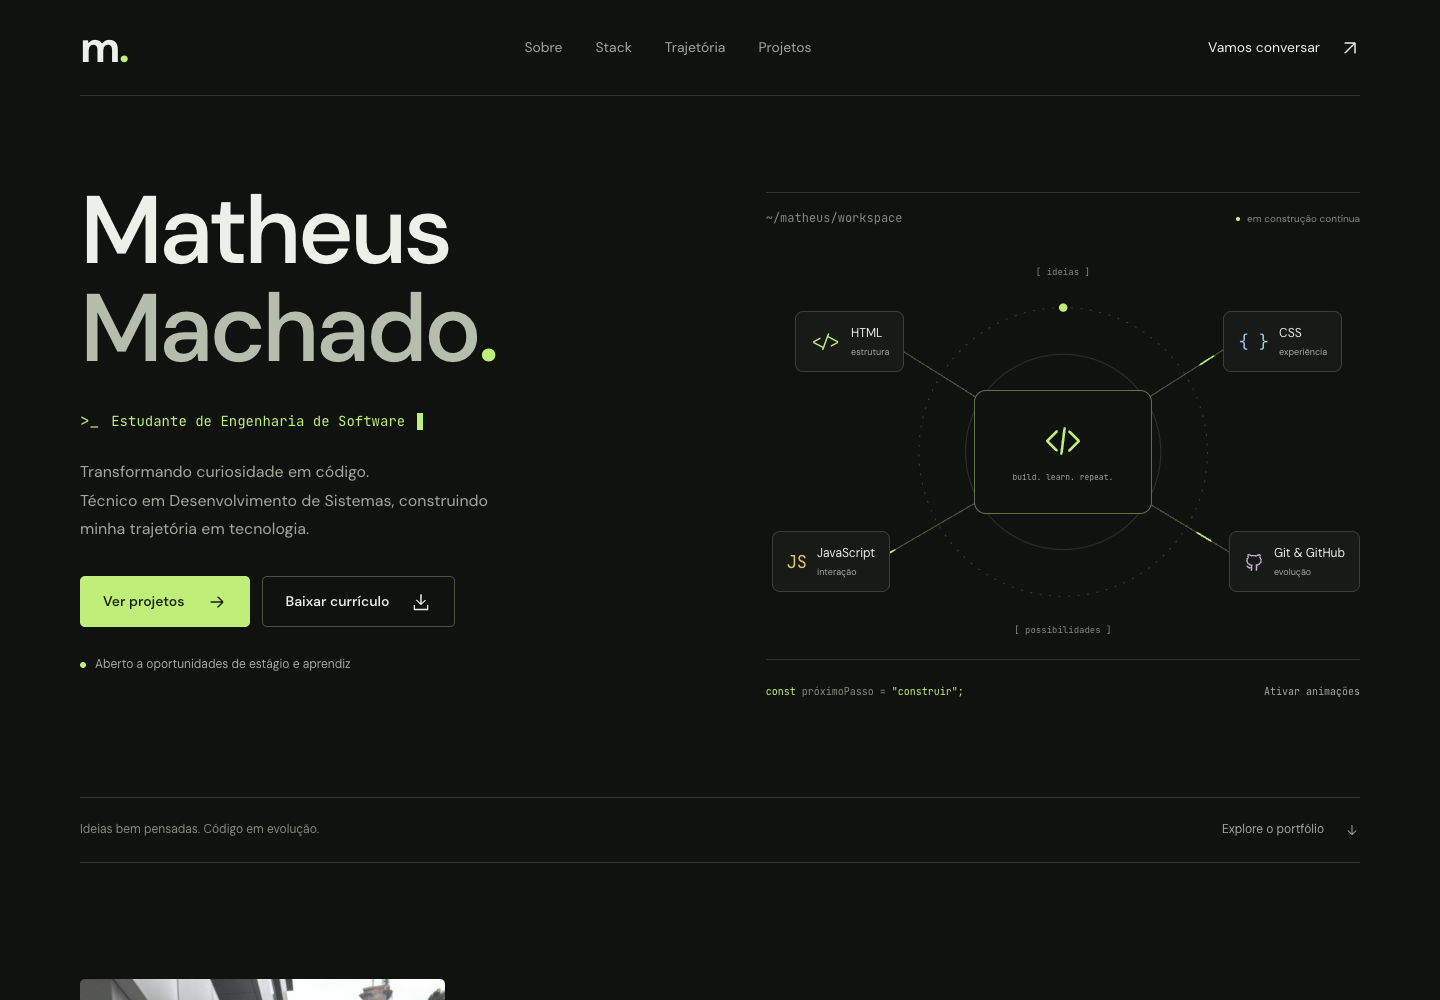
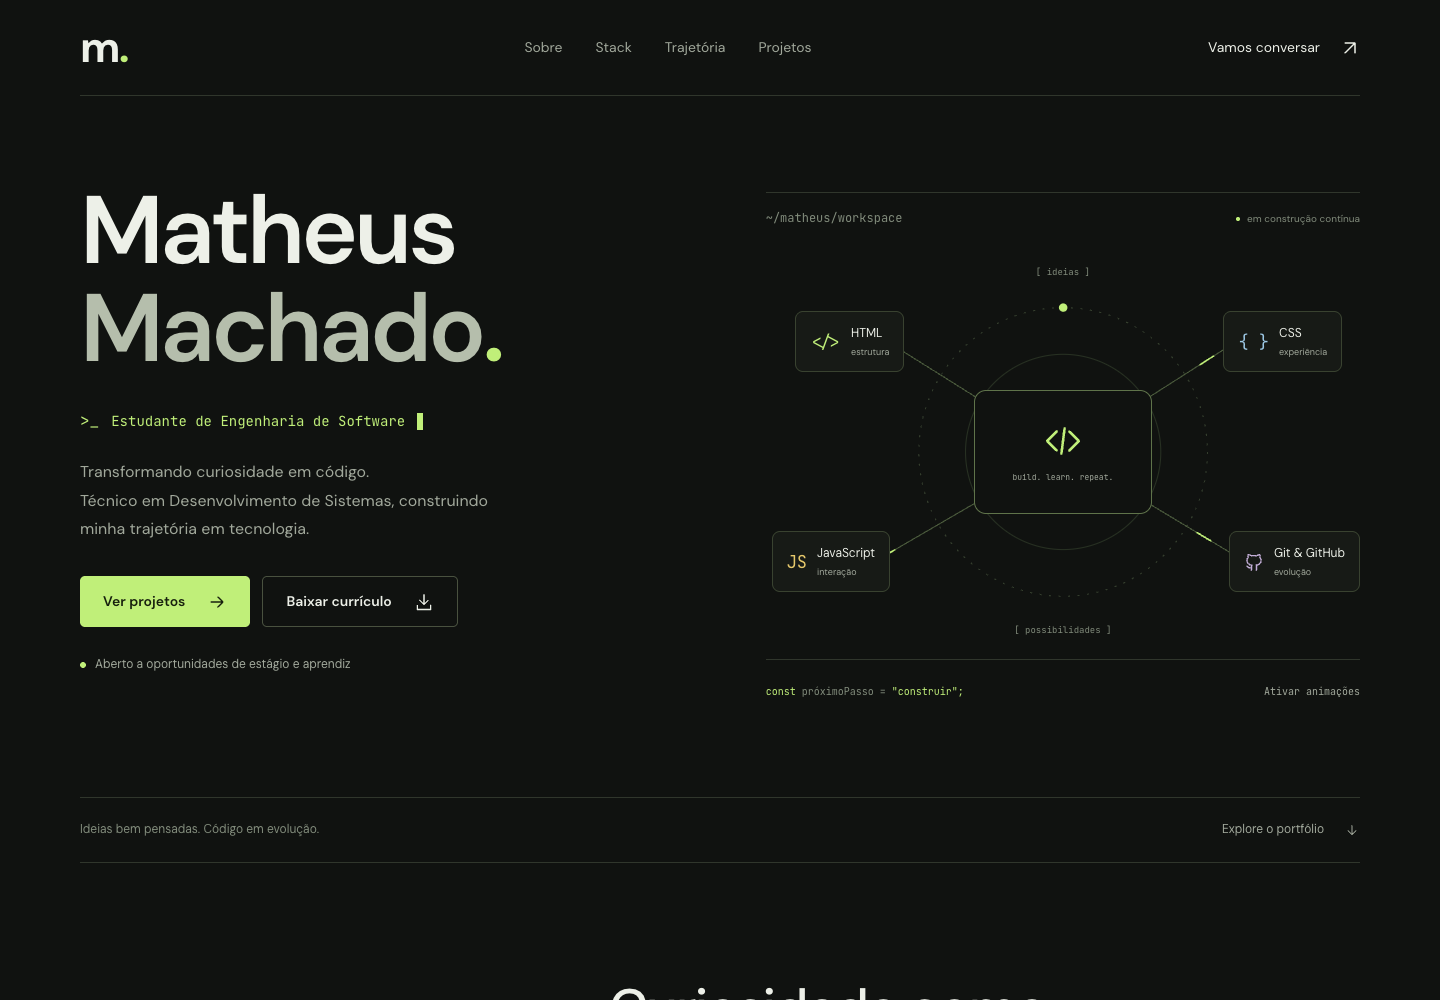
Ajustes finais

diff --git a/index.html b/index.html
@@ -7,9 +7,7 @@
   <meta name="description" content="Matheus Machado — estudante de Engenharia de Software e técnico em Desenvolvimento de Sistemas. Conheça minhas competências, formação e projetos.">
   <title>Matheus Machado — Engenharia de Software</title>
   <link rel="icon" href="favicon.svg" type="image/svg+xml">
-  <link rel="preconnect" href="https://fonts.googleapis.com">
-  <link rel="preconnect" href="https://fonts.gstatic.com" crossorigin>
-  <link href="https://fonts.googleapis.com/css2?family=DM+Sans:wght@400;450;500;550;600;650;700&family=JetBrains+Mono:wght@400;500&display=swap" rel="stylesheet">
+  <link rel="stylesheet" href="fonts/fonts.css">
   <link rel="stylesheet" href="style.css">
   <script src="script.js" defer></script>
 </head>
@@ -39,7 +37,7 @@
       <div class="hero-copy">
         <h1 id="hero-title">Matheus<br><span>Machado<span class="name-dot">.</span></span></h1>
         <div class="role-line"><span class="code-prompt" aria-hidden="true">&gt;_</span><p id="typed-role">Estudante de Engenharia de Software</p><span class="typing-caret" aria-hidden="true"></span></div>
-        <p class="hero-description">Transformando curiosidade em código.<br>Técnico em Desenvolvimento de Sistemas, construindo minha trajetória em tecnologia.</p>
+        <p class="hero-description">Transformando curiosidade em código. <br>Técnico em Desenvolvimento de Sistemas, construindo minha trajetória em tecnologia.</p>
         <div class="hero-actions">
           <a class="button button-primary magnetic" href="#projetos">Ver projetos <svg class="icon"><use href="#arrow"/></svg></a>
           <a class="button button-secondary magnetic" href="docs/Curr%C3%ADculo%20Matheus%20Machado.pdf" download>Baixar currículo <svg class="icon"><use href="#download"/></svg></a>
@@ -109,18 +107,18 @@ console.<span class="syntax-blue">log</span>(construir());</code></pre></div>
     </section>
 
     <section id="projetos" class="projects section container" aria-labelledby="projects-title">
-      <div class="section-heading reveal"><h2 id="projects-title">Do aprendizado<br>para a prática<span class="green">.</span></h2><a class="text-link" href="https://github.com/matheus1902-code" target="_blank" rel="noopener noreferrer">Explorar meu GitHub <svg class="icon"><use href="#external"/></svg></a></div>
+      <div class="section-heading reveal"><h2 id="projects-title">Do aprendizado<br>para a prática<span class="green">.</span></h2><a class="text-link" href="https://github.com/matheus-2207" target="_blank" rel="noopener noreferrer">Explorar meu GitHub <svg class="icon"><use href="#external"/></svg></a></div>
       <div class="project-grid">
         <article class="project-feature reveal">
           <a class="project-preview" href="https://github.com/matheus-2207/Matheus-Machado" target="_blank" rel="noopener noreferrer" aria-label="Ver código-fonte do portfólio pessoal no GitHub"><div class="preview-toolbar mono"><span class="preview-dots"><i></i><i></i><i></i></span>portfolio / index.html<svg class="icon"><use href="#external"/></svg></div><div class="mini-site" aria-hidden="true"><div class="mini-nav"><b>m<span>.</span></b><span>sobre &nbsp; stack &nbsp; projetos</span></div><div class="mini-content"><span>Matheus<br>Machado<span class="green">.</span></span><div class="mini-code">&lt;ideias&gt;<br><span>construir();</span><br>&lt;/ideias&gt;</div></div><span class="mini-button">Explore o portfólio <svg class="icon"><use href="#arrow"/></svg></span></div><span class="preview-note">Você está explorando este projeto</span></a>
           <div class="project-description"><div><h3>Portfólio pessoal</h3><p>Meu currículo como experiência web. Interface responsiva, animações e interatividade com tecnologias nativas.</p></div><a class="project-arrow" href="https://github.com/matheus-2207/Matheus-Machado" target="_blank" rel="noopener noreferrer" aria-label="Abrir repositório do portfólio"><svg class="icon"><use href="#external"/></svg></a></div><ul class="tags" aria-label="Tecnologias do portfólio"><li>HTML</li><li>CSS</li><li>JavaScript</li></ul>
         </article>
-        <article class="project-next reveal"><svg class="icon"><use href="#github"/></svg><h3>O próximo projeto<br>começa com uma<br>boa pergunta.</h3><p>Meu repertório está em construção. Acompanhe os próximos experimentos e aprendizados no GitHub.</p><a class="text-link" href="https://github.com/matheus1902-code" target="_blank" rel="noopener noreferrer">Acompanhar minha evolução <svg class="icon"><use href="#external"/></svg></a><span class="mono next-code">git commit -m "seguir aprendendo"</span></article>
+        <article class="project-next reveal"><svg class="icon"><use href="#github"/></svg><h3>O próximo projeto<br>começa com uma<br>boa pergunta.</h3><p>Meu repertório está em construção. Acompanhe os próximos experimentos e aprendizados no GitHub.</p><a class="text-link" href="https://github.com/matheus-2207" target="_blank" rel="noopener noreferrer">Acompanhar minha evolução <svg class="icon"><use href="#external"/></svg></a><span class="mono next-code">git commit -m "seguir aprendendo"</span></article>
       </div>
     </section>
 
     <section id="contato" class="contact section" aria-labelledby="contact-title"><div class="container contact-grid">
-      <div class="contact-copy reveal"><p class="availability"><span class="status-dot"></span>Aberto ao próximo capítulo</p><h2 id="contact-title">Vamos construir<br>algo juntos<span class="green">?</span></h2><p>Uma oportunidade, uma ideia ou uma boa conversa.<br>Estou pronto para dar o próximo passo.</p><a class="contact-email" href="mailto:matheusvm2019@gmail.com">matheusvm2019@gmail.com <svg class="icon"><use href="#external"/></svg></a><div class="social-links"><a href="https://github.com/matheus1902-code" target="_blank" rel="noopener noreferrer"><svg class="icon"><use href="#github"/></svg>GitHub</a><a href="https://www.linkedin.com/in/matheus-machado-560680384" target="_blank" rel="noopener noreferrer"><svg class="icon"><use href="#linkedin"/></svg>LinkedIn</a><a href="https://wa.me/5541996550283" target="_blank" rel="noopener noreferrer">WhatsApp <svg class="icon"><use href="#external"/></svg></a></div></div>
+      <div class="contact-copy reveal"><p class="availability"><span class="status-dot"></span>Aberto ao próximo capítulo</p><h2 id="contact-title">Vamos construir<br>algo juntos<span class="green">?</span></h2><p>Uma oportunidade, uma ideia ou uma boa conversa. <br>Estou pronto para dar o próximo passo.</p><a class="contact-email" href="mailto:matheusvm2019@gmail.com">matheusvm2019@gmail.com <svg class="icon"><use href="#external"/></svg></a><div class="social-links"><a href="https://github.com/matheus-2207" target="_blank" rel="noopener noreferrer"><svg class="icon"><use href="#github"/></svg>GitHub</a><a href="https://www.linkedin.com/in/matheus-machado-560680384" target="_blank" rel="noopener noreferrer"><svg class="icon"><use href="#linkedin"/></svg>LinkedIn</a><a href="https://wa.me/5541996550283" target="_blank" rel="noopener noreferrer">WhatsApp <svg class="icon"><use href="#external"/></svg></a></div></div>
       <form id="contact-form" class="contact-form reveal" action="mailto:matheusvm2019@gmail.com" method="get"><div class="field"><label for="contact-name">Seu nome</label><input id="contact-name" name="name" placeholder="Como posso chamar você?" autocomplete="name" required maxlength="100"></div><div class="field"><label for="contact-email">Seu e-mail</label><input id="contact-email" name="email" type="email" placeholder="voce@empresa.com" autocomplete="email" required maxlength="254"></div><div class="field"><label for="contact-message">O que você tem em mente?</label><textarea id="contact-message" name="body" placeholder="Me conte sobre a oportunidade ou sua ideia..." required minlength="10" maxlength="3000" rows="3"></textarea></div><button class="button button-primary" type="submit">Preparar e-mail <svg class="icon"><use href="#arrow"/></svg></button><p class="form-note">Abre seu aplicativo de e-mail com a mensagem preenchida. Você confirma o envio por lá.</p><p id="form-status" class="form-status" role="status"></p></form>
     </div></section>
   </main>

diff --git a/style.css b/style.css
@@ -100,7 +100,7 @@ h1 > span { color: #b5beac; }
 .down { transform: rotate(90deg); width: 16px; }
 .about { display: grid; grid-template-columns: .8fr 1.4fr; gap: 100px; align-items: center; }
 .about-portrait { position: relative; max-width: 365px; }
-.about-portrait img { width: 100%; height: auto; aspect-ratio: 4/4.6; object-fit: cover; object-position: center 37%; filter: saturate(.55); border-radius: 5px; }
+.about-portrait img { width: 100%; height: auto; aspect-ratio: 4/4.6; object-fit: cover; object-position: center 37%; border-radius: 5px; }
 .portrait-caption { position: absolute; bottom: 0; left: 0; right: 0; padding: 14px 20px; background: var(--surface); color: var(--muted); font-size: 10px; }
 .about-copy h2 { max-width: 620px; margin-bottom: 28px; }
 .about-copy > p { margin-top: 16px; max-width: 65ch; }
@@ -258,7 +258,7 @@ html:has(body.motion-paused) { scroll-behavior: auto; }
   .skill-tab { flex-direction: column; justify-content: center; text-align: center; padding: 14px 6px; gap: 8px; }.skill-tab > span:nth-child(2) { font-size: 12px; }.skill-tab > span > span,.skill-tab > .icon:last-child { display: none; }
   .editor { border-left: 0; border-top: 1px solid var(--line); }
   .journey { grid-template-columns: 1fr; gap: 40px; }.journey-intro > p { max-width: 500px; }.timeline { margin-left: 6px; }
-  .project-grid { grid-template-columns: 1fr; gap: 35px; }.project-next { padding: 35px 0 0; border-top: 1px solid var(--line); }.project-next h3 br { display: none; }.project-next h3 { max-width: 500px; }.project-next p { max-width: 500px; }.next-code { padding-top: 25px; }
+  .project-grid { grid-template-columns: 1fr; gap: 35px; }.project-next { padding: 35px 0 0; border-top: 1px solid var(--line); }.project-next h3 { max-width: 500px; }.project-next p { max-width: 500px; }.next-code { padding-top: 25px; }
   .mini-content > span { font-size: 48px; }.mini-site { margin-inline: 40px; padding: 24px 35px 35px; }.mini-code { font-size: 12px; }
   .contact-grid { grid-template-columns: 1fr; gap: 50px; }
 }
@@ -294,4 +294,34 @@ html:has(body.motion-paused) { scroll-behavior: auto; }
 }
 @media (prefers-reduced-motion: reduce) {
   html { scroll-behavior: auto; }*,*::before,*::after { animation: none !important; transition: none !important; }.cursor-ring { display: none; }
+}
+
+/* Mobile refinements: readable controls and stable layouts on narrow screens. */
+.sr-only { position: absolute; width: 1px; height: 1px; padding: 0; margin: -1px; overflow: hidden; clip-path: inset(50%); white-space: nowrap; border: 0; }
+@media (max-width: 800px) {
+  .run-button, .system-bottom button { min-height: 44px; }
+  .social-links a, .text-link, .back-top { min-height: 44px; }
+  .field input, .field textarea { font-size: 16px; }
+  .hero-copy, .about-copy, .contact-copy, .contact-form, .project-feature { min-width: 0; }
+  .code-window { overscroll-behavior-x: contain; }
+}
+@media (max-width: 560px) {
+  .menu-toggle { width: 44px; height: 44px; }
+  .role-line { min-height: 36px; align-items: flex-start; }
+  .role-line p { font-size: 11px; min-width: 0; line-height: 1.65; }
+  .typing-caret { margin-top: 3px; }
+  .system-bottom { flex-wrap: wrap; gap: 0 10px; font-size: 9px; }
+  .system-bottom button { font-size: 10px; }
+  .about-portrait img { height: auto; aspect-ratio: 1.1; }
+  pre, .line-numbers { font-size: 11px; line-height: 1.9; }
+  .contact-email { font-size: clamp(13px, 4vw, 16px); overflow-wrap: anywhere; }
+}
+@media (max-width: 360px) {
+  .hero-actions { display: grid; grid-template-columns: 1fr; }
+  .hero-actions .button { justify-content: space-between; }
+  .header-contact { margin-right: 10px; }
+  .system-live { display: none; }
+  .tech-node { padding: 8px 6px; font-size: 9px; }
+  .node-caption { font-size: 7px; }
+  .contact-copy h2 { font-size: 36px; }
 }

diff --git a/script.js b/script.js
@@ -16,11 +16,14 @@ reducedMotion.addEventListener('change', (event) => { motionPaused = event.match
 // The real heading remains readable for assistive technology and without JavaScript.
 const role = document.querySelector('#typed-role');
 const roleText = role.textContent;
-role.setAttribute('aria-label', roleText);
+
 if (!motionPaused) {
   const animatedRole = document.createElement('span');
   animatedRole.setAttribute('aria-hidden', 'true');
-  role.replaceChildren(animatedRole);
+  const accessibleRole = document.createElement('span');
+  accessibleRole.className = 'sr-only';
+  accessibleRole.textContent = roleText;
+  role.replaceChildren(accessibleRole, animatedRole);
   let character = 0;
   function typeRole() {
     if (motionPaused) { animatedRole.textContent = roleText; return; }

diff --git a/DESIGN.md b/DESIGN.md
@@ -1,0 +1,69 @@
+---
+name: Matheus Machado
+description: Portfólio editorial de engenharia de software
+colors:
+  primary: "#c0ef79"
+  background: "#101210"
+  surface: "#171a16"
+  foreground: "#edf0e8"
+  muted: "#a1a89b"
+  border: "#30362c"
+typography:
+  display:
+    fontFamily: "DM Sans, sans-serif"
+    fontSize: "clamp(64px, 6.7vw, 96px)"
+    fontWeight: 550
+    lineHeight: 1.02
+    letterSpacing: "-0.04em"
+  body:
+    fontFamily: "DM Sans, sans-serif"
+    fontSize: "16px"
+    fontWeight: 400
+    lineHeight: 1.65
+  code:
+    fontFamily: "JetBrains Mono, monospace"
+    fontSize: "12px"
+    lineHeight: 1.9
+rounded:
+  control: "5px"
+  panel: "12px"
+spacing:
+  small: "12px"
+  medium: "24px"
+  section: "116px"
+components:
+  button-primary:
+    backgroundColor: "{colors.primary}"
+    textColor: "#17200d"
+    rounded: "{rounded.control}"
+    padding: "13px 23px"
+---
+# Design System: Matheus Machado
+
+## Overview
+Ambiente de desenvolvimento editorial: tipografia ampla, superfícies escuras e diagrama de competências. A expressão técnica vem do código e das interações reais, preservando o perfil de estudante.
+
+## Colors
+Verde suave destaca ações e estados selecionados. Tons carvão estruturam o fundo e o editor; off-white privilegia a leitura. Azul, âmbar e violeta identificam sintaxe.
+
+## Typography
+DM Sans local para títulos e conteúdo; JetBrains Mono local para código. Títulos equilibrados e tracking limitado a -0.04em. No celular, texto de formulário em 16px evita zoom automático e código mantém rolagem horizontal interna.
+
+## Layout
+Contêiner máximo de 1280px. Hero e seções alternam duas colunas; abaixo de 800px, painéis principais se empilham. Breakpoints em 1100, 800, 560 e 360px. Margens de 20px em celulares; espaçamento vertical de 72px. Imagem com proporção explícita e altura automática.
+
+## Elevation & Depth
+Camadas tonais e bordas finas. Sem sombras ou halos decorativos.
+
+## Shapes
+Controles levemente arredondados, editor com cantos de painel, linha contínua na timeline. Ícones SVG com traço consistente.
+
+## Components
+Hero com digitação acessível e diagrama de tecnologias navegável. Botões com deslocamento magnético sutil em mouse. Abas com teclado e terminal demonstrativo. Timeline em details/summary nativo. Projeto com prévia em HTML. Formulário com validação e confirmação de preparação, sem alegar envio. Menu mobile com Escape e fechamento ao navegar. Movimento respeita preferências do sistema e pausa manual.
+
+## Do's and Don'ts
+- Preservar as informações reais e os links confirmados.
+- Manter o conteúdo visível sem animações ou JavaScript.
+- Reservar monoespaçada para código e informação técnica.
+- Não inventar senioridade, percentuais ou experiência.
+- Não transformar preparação de e-mail em confirmação de envio.

diff --git a/README.md b/README.md
@@ -1,2 +1,27 @@
-# Matheus-Machado
-Basicamente meu currículo em um site.
+# Matheus Machado — Portfólio
+
+Currículo web responsivo em HTML, CSS e JavaScript, sem framework ou etapa de build.
+
+## Executar
+
+Abra `index.html` no navegador ou execute `python3 -m http.server 4173` e acesse http://localhost:4173.
+
+## Estrutura e componentes
+
+- `index.html`: apresentação, sobre, competências, formação, projetos e contato.
+- `style.css`: tema carvão/verde, grids responsivos e animações.
+- `script.js`: digitação, diagrama, menu mobile, abas acessíveis, terminal demonstrativo, progresso de leitura e preparação de e-mail.
+- `fonts/`: DM Sans e JetBrains Mono servidas localmente.
+- `docs/`: currículo original em PDF.
+- `PRODUCT.md`: perfil e restrições de conteúdo.
+- `DESIGN.md`: sistema visual e componentes.
+
+O painel de código é uma demonstração local. Não executa comandos Git ou código fornecido pelo visitante. O formulário prepara um e-mail, mantendo o envio sob confirmação no aplicativo de e-mail; não há servidor de envio configurado.
+
+## Acessibilidade e movimento
+
+Navegação por teclado, foco visível, rótulos de formulário, abas com setas/Home/End, conteúdo disponível sem JavaScript e suporte a `prefers-reduced-motion`. O controle no diagrama também pausa as animações.
+
+## Conteúdo
+
+O perfil preserva a formação de estudante e a procura de estágio/aprendiz. GitHub: https://github.com/matheus-2207. O projeto exibido é este portfólio, com repositório confirmado. Novas experiências e projetos devem ser acrescentados apenas com dados reais.
